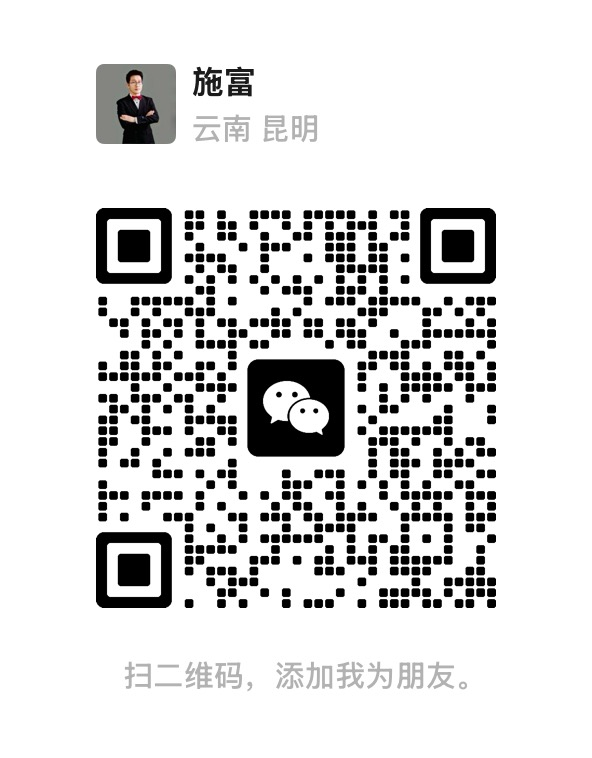
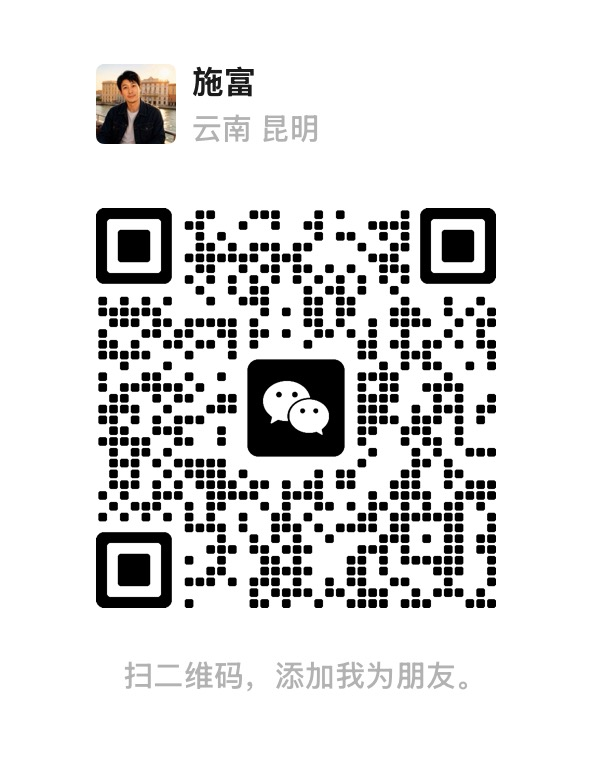
fix: refresh customization contact QR

Changed region(s): [[0.152, 0.2731, 0.8514, 0.8193], [0.152, 0.0607, 0.3041, 0.2124]]

diff --git a/src/components/PlatformPages.jsx b/src/components/PlatformPages.jsx
@@ -59,7 +59,7 @@ function CustomizationContactDialog({ onClose }) {
         <h2 id="custom-contact-title">微信沟通深度定制</h2>
         <p>扫描二维码添加施富，发送你的业务目标与期望结果，我们会一起梳理适合的智能体与自动化方案。</p>
         <figure className="custom-contact-qr-shell">
-          <img src="/assets/deep-customization-wechat.jpg" alt="深度定制联系人施富的微信二维码" />
+          <img src="/assets/deep-customization-wechat.jpg?v=20260823" alt="深度定制联系人施富的微信二维码" />
           <figcaption>打开微信扫一扫，添加好友后备注“古龙深度定制”</figcaption>
         </figure>
         <button className="button primary full" type="button" onClick={onClose}>我已保存二维码</button>
